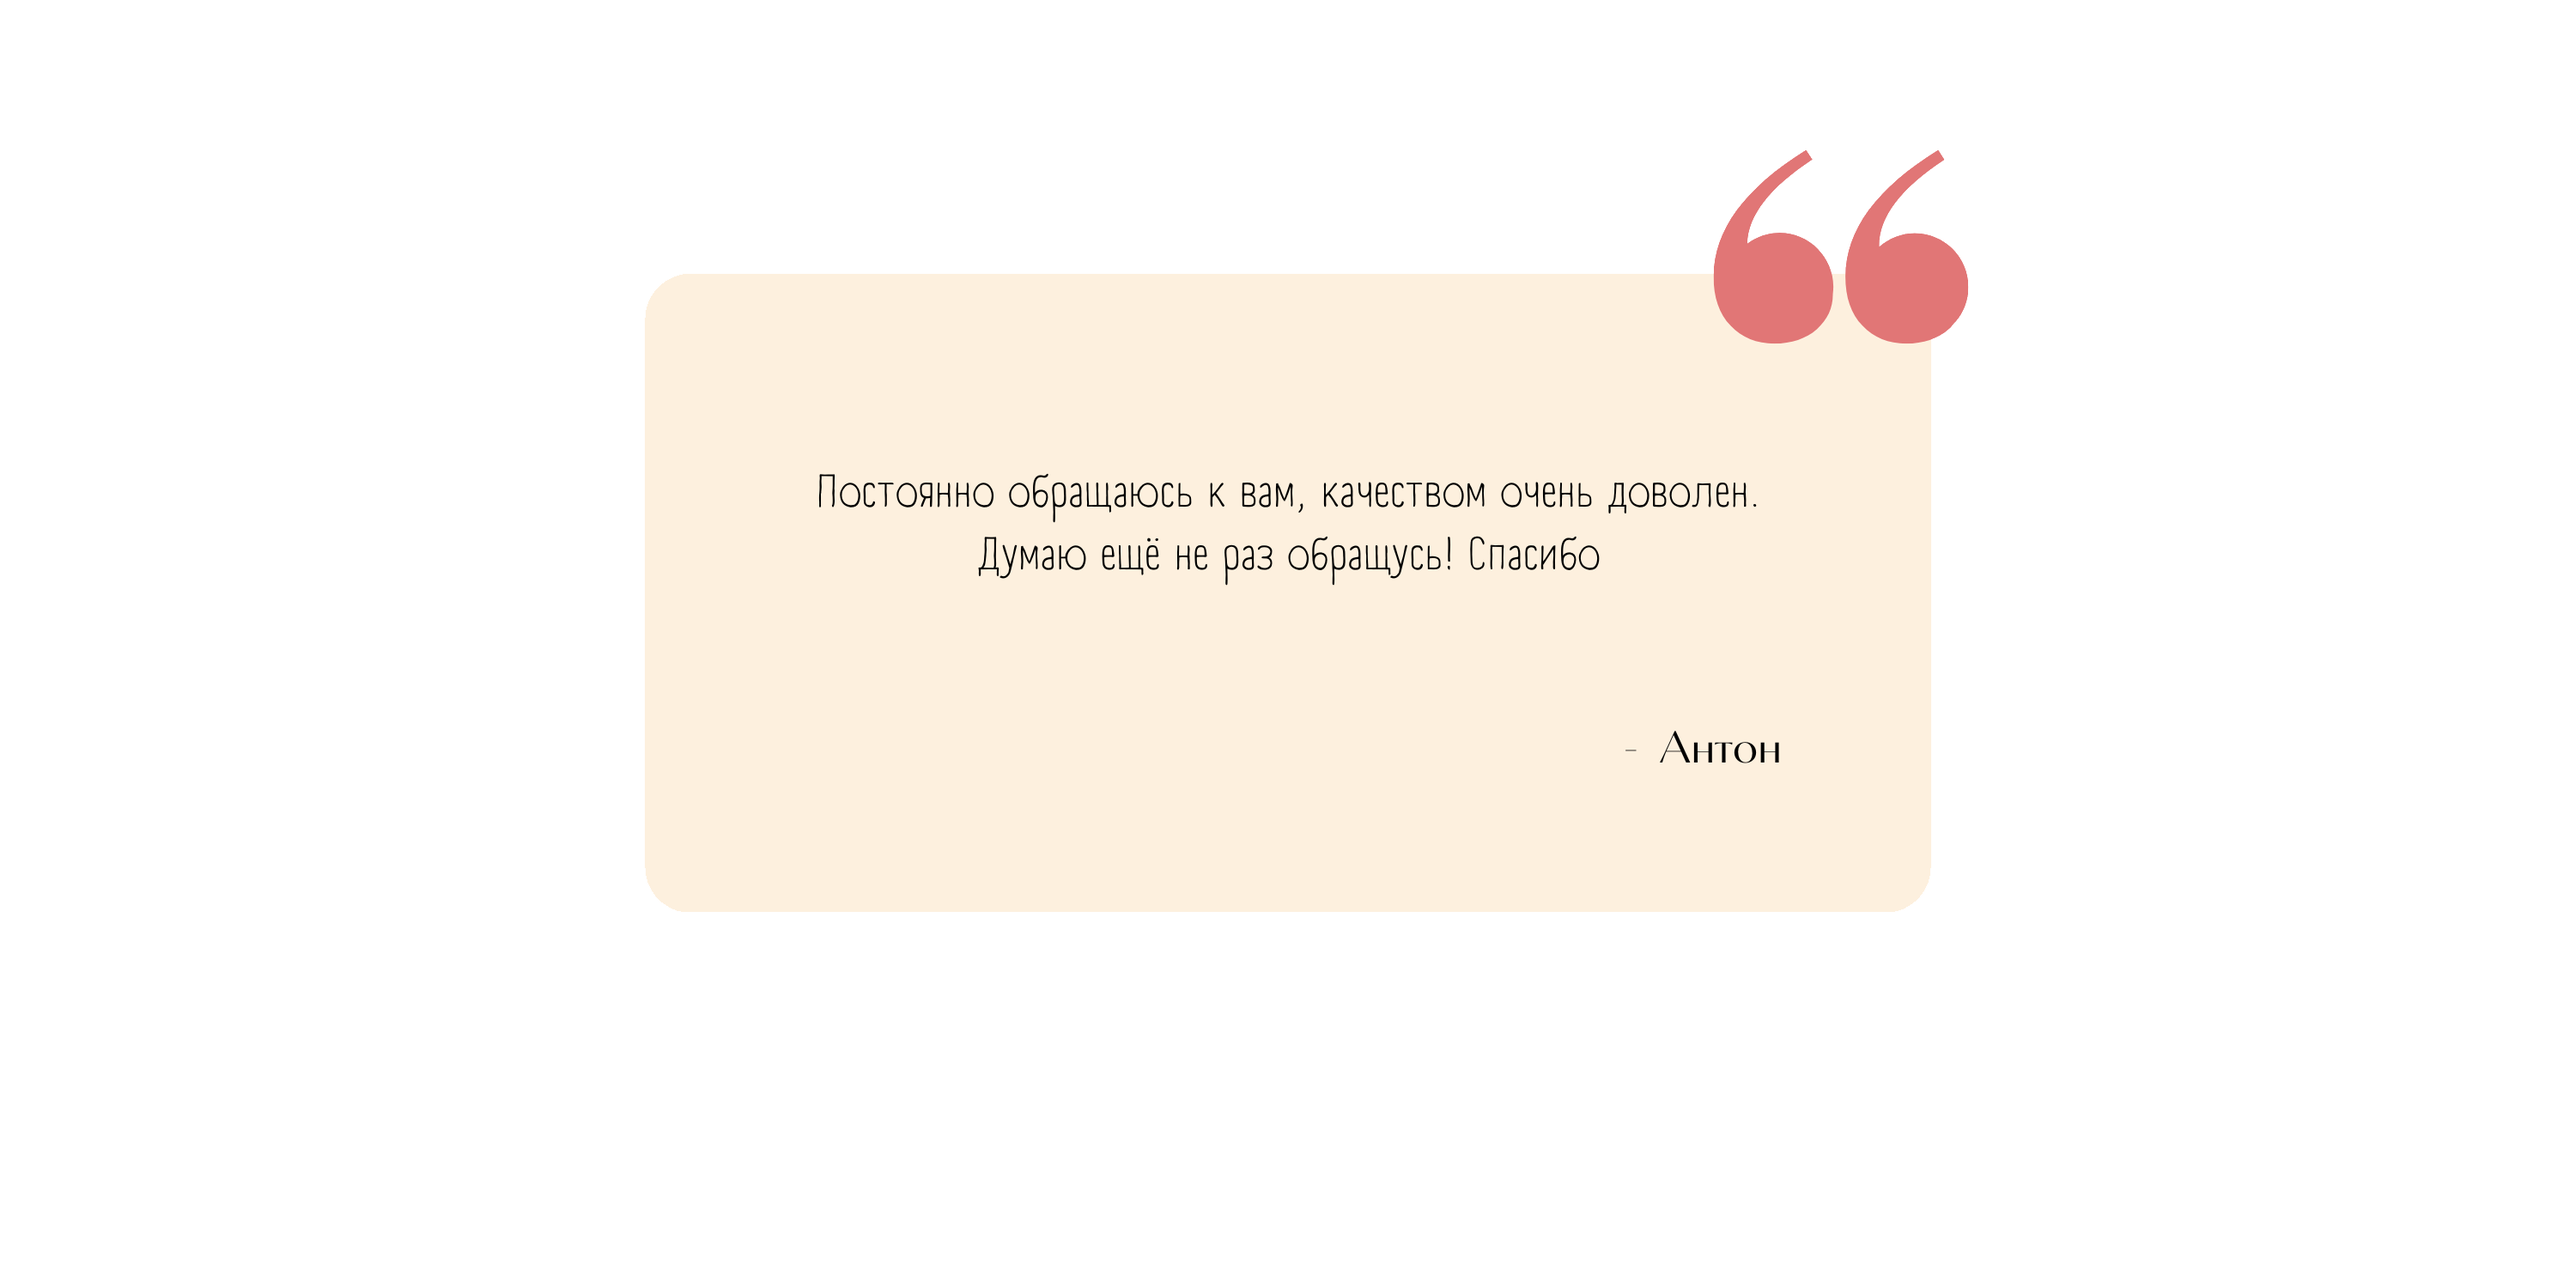
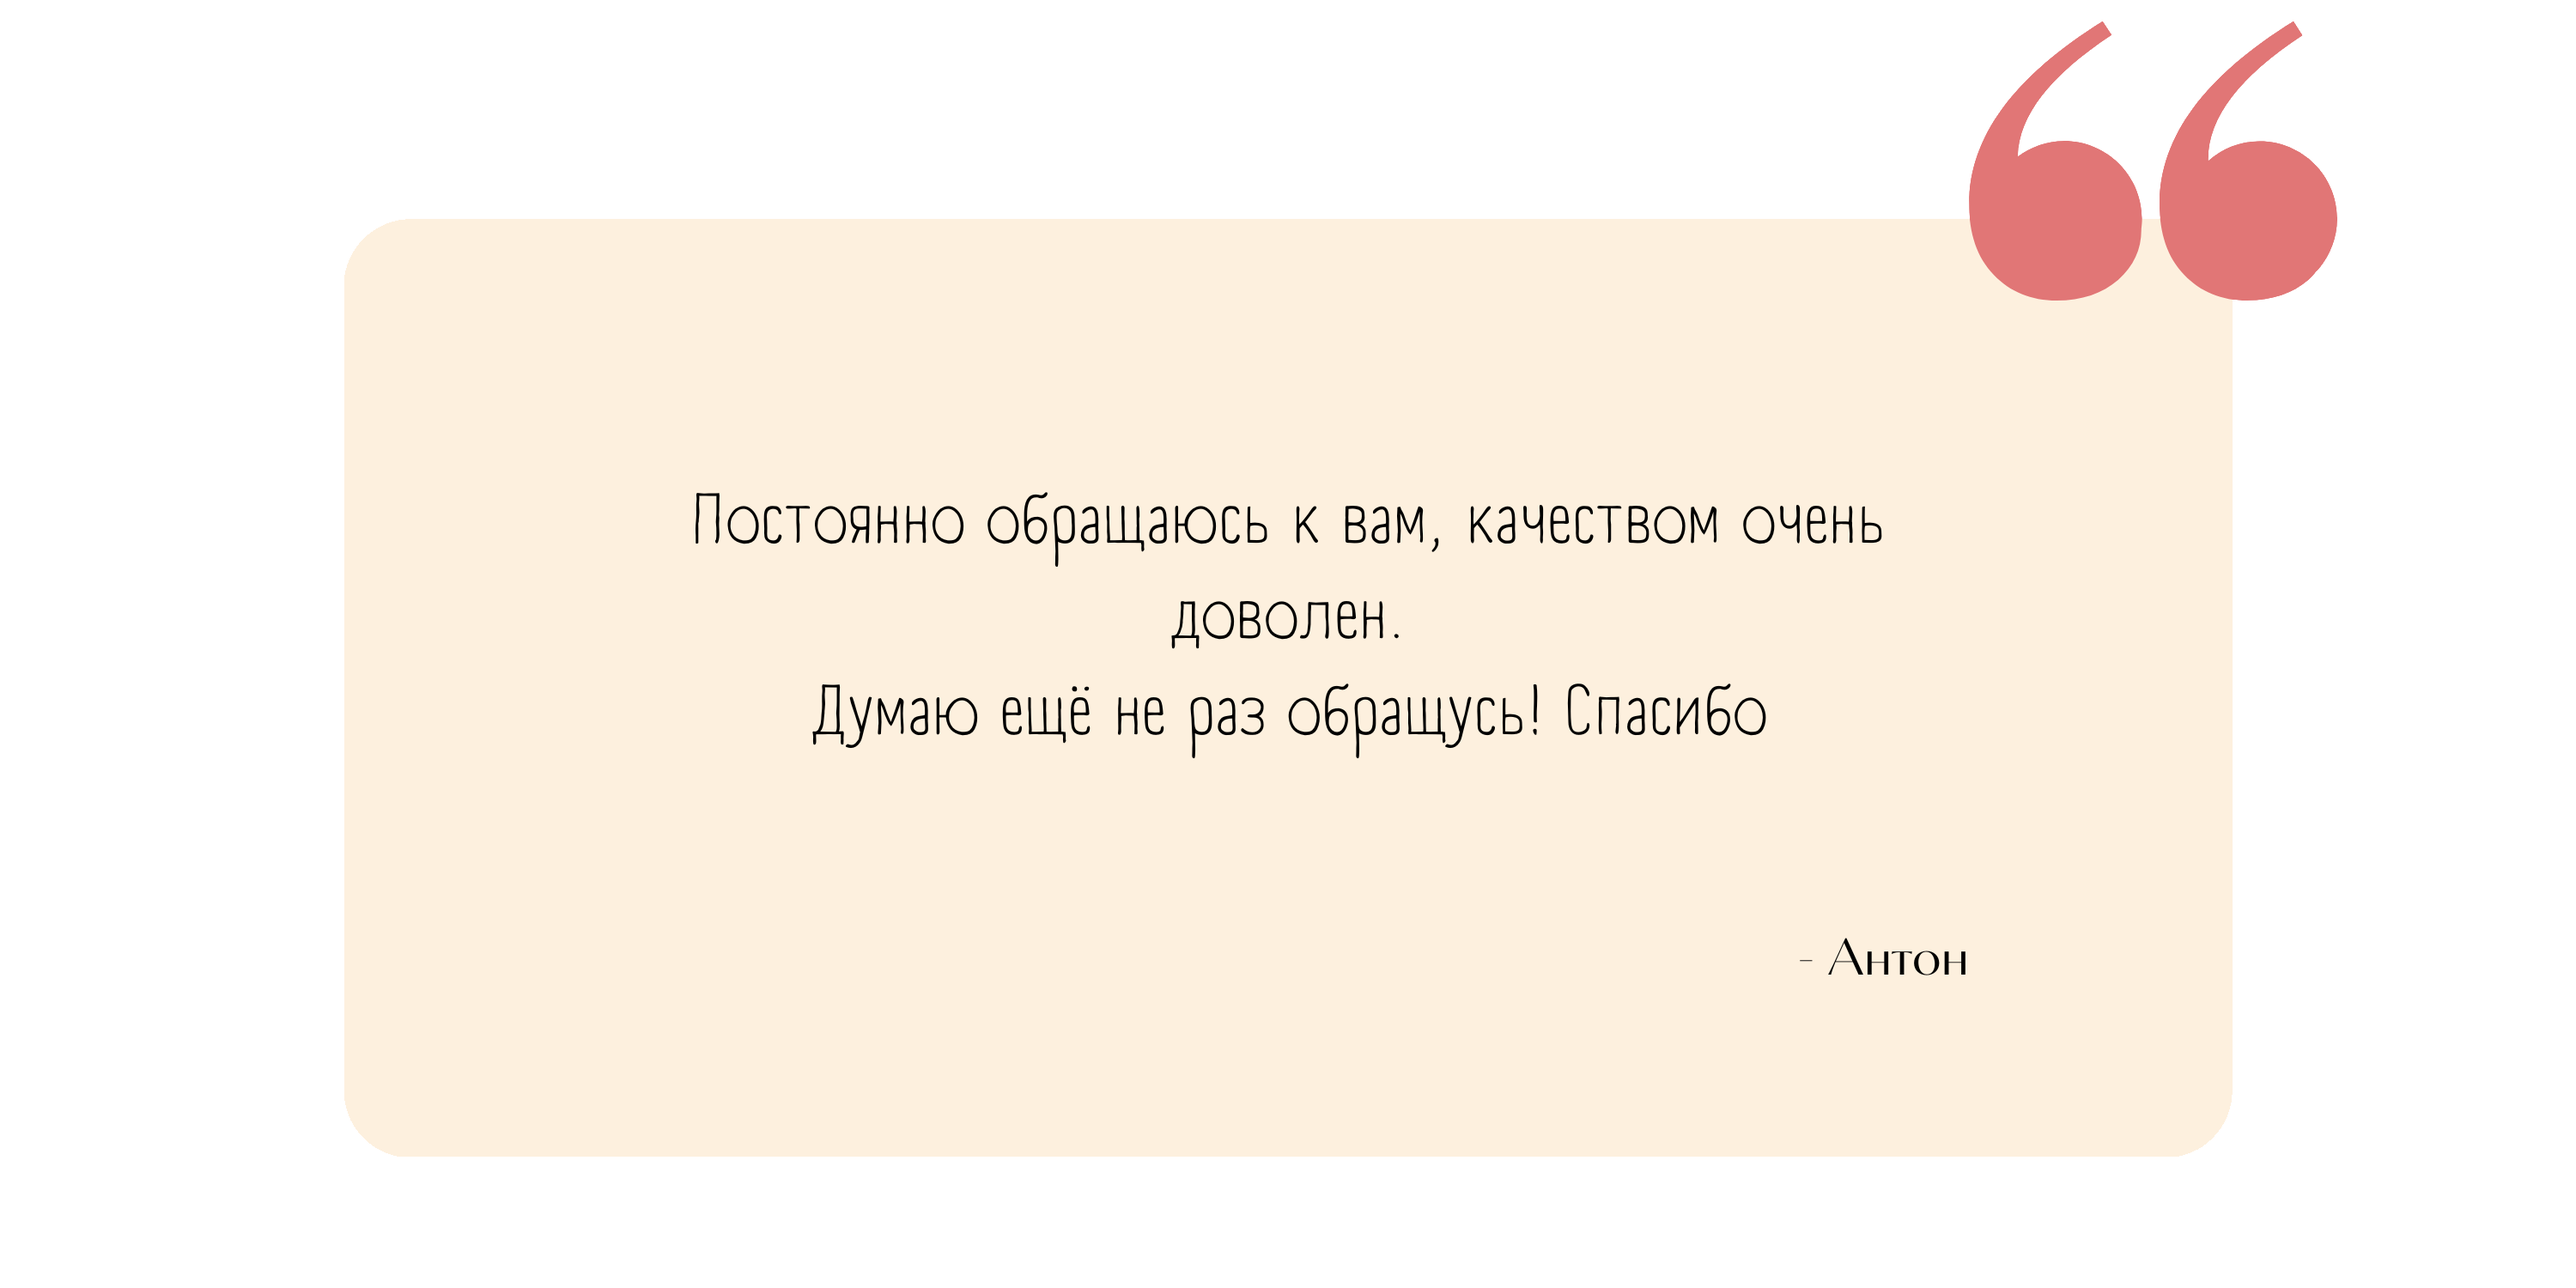
fix reviews

diff --git a/css/style.css b/css/style.css
@@ -630,7 +630,7 @@ input._error {
 
 .swiper {
   width: 900px;
-  height: 400px;
+  height: 500px;
 }
 
 
@@ -1073,11 +1073,10 @@ input._error {
 
 .swiper-reviews .swiper-slide__image {
 	height: 100%;
-	padding-top: 50px;
 }
 
 .swiper-reviews img {
-	width: 65%;
+	width: 90%;
 }
 
 }
@@ -1873,11 +1872,11 @@ input._error {
 
 .swiper-reviews .swiper-slide__image {
 	height: 100%;
-	padding-top: 50px;
+	padding-top: 40px;
 }
 
 .swiper-reviews img {
-	width: 65%;
+	width: 90%;
 }
 
 }
